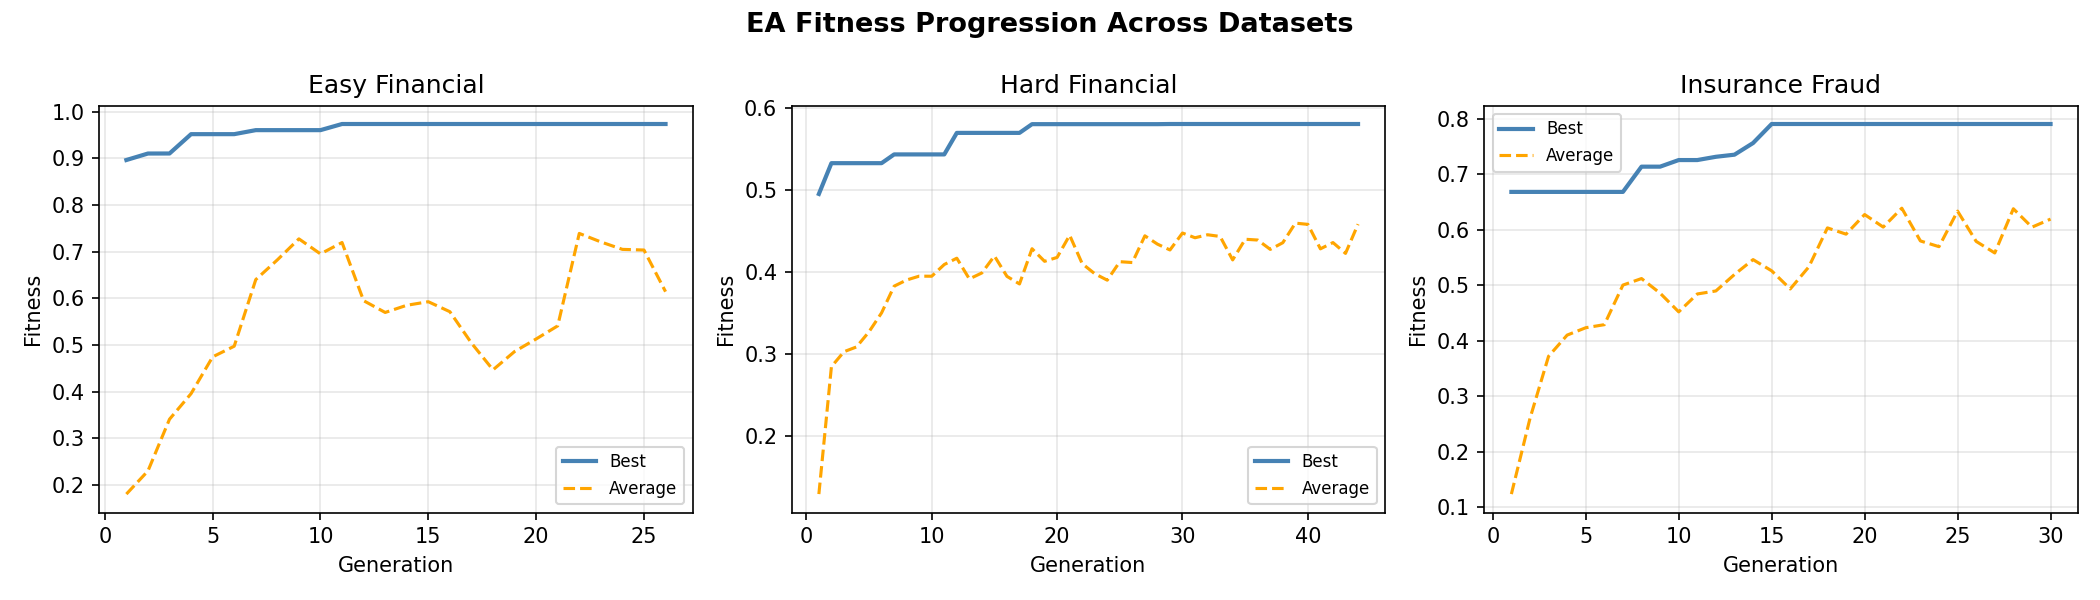
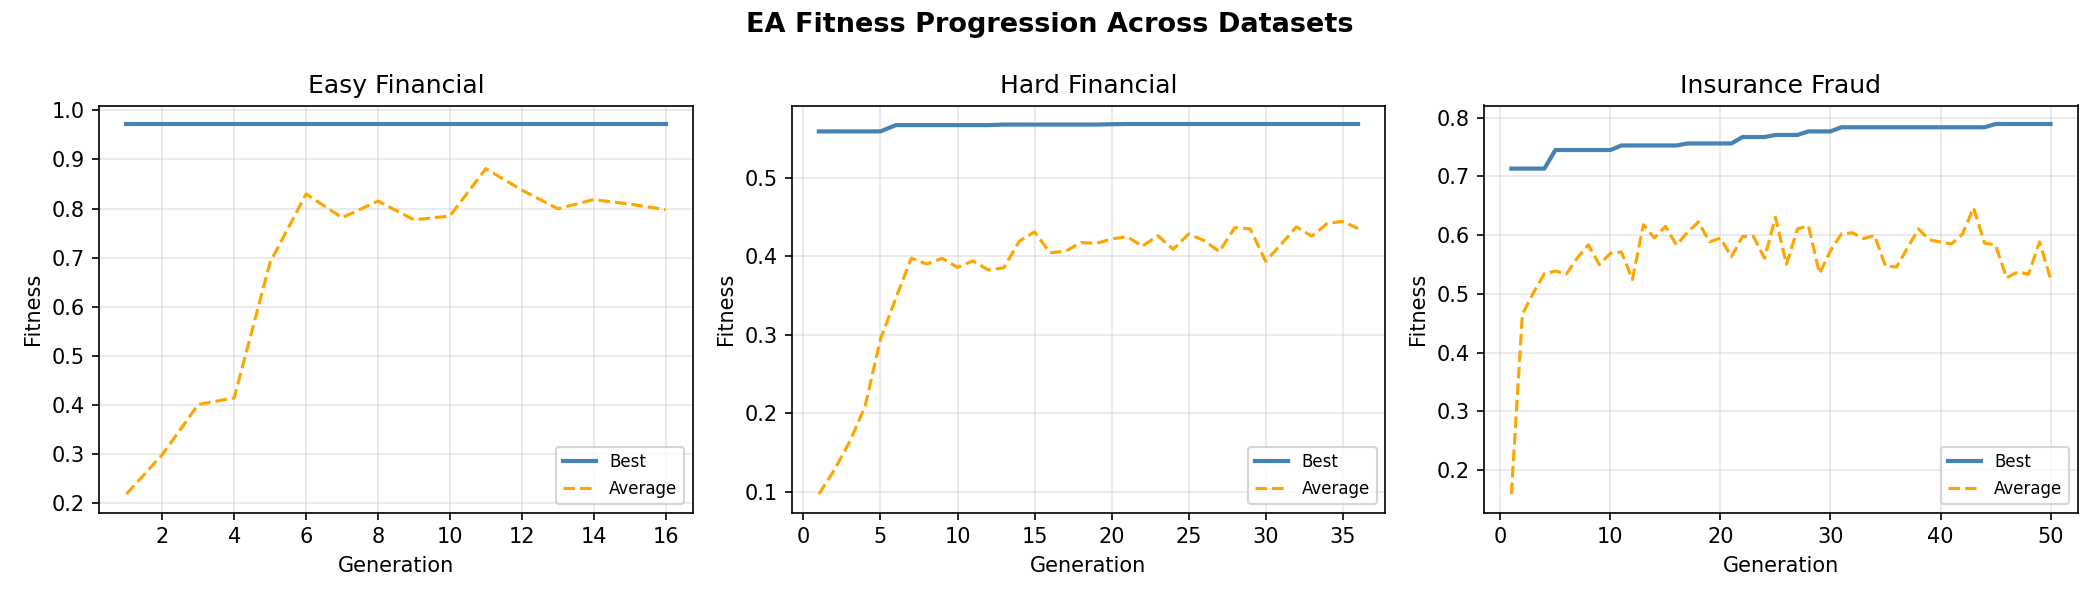
poster and expermient updates

diff --git a/poster_24x36.html b/poster_24x36.html
@@ -1,0 +1,180 @@
+<!doctype html>
+<html lang="en">
+<head>
+  <meta charset="utf-8" />
+  <meta name="viewport" content="width=device-width, initial-scale=1" />
+  <title>EA Fraud Detection Poster (24x36)</title>
+  <style>
+    @page { size: 24in 36in; margin: 0.4in; }
+    body {
+      margin: 0;
+      font-family: Arial, Helvetica, sans-serif;
+      background: #f6f8fb;
+      color: #17202a;
+    }
+    .poster {
+      width: 24in;
+      height: 36in;
+      box-sizing: border-box;
+      padding: 0.35in;
+      display: grid;
+      grid-template-rows: auto auto auto auto auto auto;
+      gap: 0.18in;
+      background: white;
+    }
+    h1 {
+      margin: 0;
+      font-size: 64px;
+      color: #0b2e4f;
+      text-align: center;
+      line-height: 1.08;
+    }
+    .subtitle {
+      text-align: center;
+      font-size: 28px;
+      color: #284b63;
+      margin-top: 0.05in;
+      margin-bottom: 0.1in;
+    }
+    .two-col {
+      display: grid;
+      grid-template-columns: 1fr 1fr;
+      gap: 0.2in;
+    }
+    .panel {
+      background: #f7fbff;
+      border: 2px solid #d7e5f2;
+      border-radius: 16px;
+      padding: 0.14in 0.17in;
+    }
+    .panel h2 {
+      margin: 0 0 0.08in 0;
+      font-size: 34px;
+      color: #0b2e4f;
+    }
+    .panel ul {
+      margin: 0;
+      padding-left: 0.22in;
+      font-size: 23px;
+      line-height: 1.28;
+    }
+    .figure-wrap {
+      background: #fff;
+      border: 2px solid #d8dee8;
+      border-radius: 14px;
+      padding: 0.10in;
+    }
+    .figure-title {
+      margin: 0 0 0.06in 0;
+      text-align: center;
+      font-size: 28px;
+      color: #12395c;
+      font-weight: 700;
+    }
+    .figure-img {
+      width: 100%;
+      height: auto;
+      display: block;
+      border-radius: 10px;
+    }
+    .results-header {
+      text-align: center;
+      font-size: 44px;
+      font-weight: 800;
+      color: #0b2e4f;
+      margin-top: 0.03in;
+      margin-bottom: -0.03in;
+    }
+    .conclusion {
+      background: #f3f8ff;
+      border: 2px solid #cbdcee;
+      border-radius: 16px;
+      padding: 0.15in 0.20in;
+    }
+    .conclusion h2 {
+      margin: 0;
+      font-size: 34px;
+      color: #0b2e4f;
+    }
+    .conclusion ul {
+      margin: 0.07in 0 0 0;
+      padding-left: 0.24in;
+      font-size: 24px;
+      line-height: 1.30;
+    }
+    .footer {
+      text-align: right;
+      font-size: 18px;
+      color: #5b6f82;
+    }
+  </style>
+</head>
+<body>
+  <div class="poster">
+    <header>
+      <h1>Evolutionary Algorithm Fraud Detection:<br/>Interpretable Rule Discovery</h1>
+      <div class="subtitle">CS 420 Project Poster</div>
+    </header>
+
+    <section class="two-col">
+      <div class="panel">
+        <h2>Introduction &amp; Motivation</h2>
+        <ul>
+          <li>Fraud operations need both strong detection and explainable decisions.</li>
+          <li>Black-box models can be accurate but difficult to audit and trust.</li>
+          <li>Goal: evolve human-readable fraud rules that prioritize likely fraud early.</li>
+          <li>Evaluated on Easy Financial, Hard Financial, and Insurance Fraud datasets.</li>
+        </ul>
+      </div>
+      <div class="panel">
+        <h2>Methods / Approach</h2>
+        <ul>
+          <li>Preprocess data and train ElasticNet as baseline risk scoring model.</li>
+          <li>Represent candidate fraud rules with threshold conditions on features.</li>
+          <li>EA loop: initialize population → fitness evaluation → diversity clustering.</li>
+          <li>Tournament selection + crossover + mutation across generations.</li>
+          <li>Fitness balances precision, recall, and agreement with baseline signal.</li>
+        </ul>
+      </div>
+    </section>
+
+    <section class="figure-wrap">
+      <div class="figure-title">Pipeline Overview</div>
+      <img class="figure-img" src="results/pipeline_diagram.png" alt="EA pipeline diagram" />
+    </section>
+
+    <section>
+      <div class="results-header">Results</div>
+    </section>
+
+    <section class="figure-wrap">
+      <div class="figure-title">Fitness Progression and Baseline Comparison</div>
+      <img class="figure-img" src="results/exp1_fitness_curves.png" alt="Fitness curves" />
+      <img class="figure-img" src="results/exp2_ea_vs_baseline.png" alt="EA vs baseline metrics" style="margin-top: 0.08in;" />
+    </section>
+
+    <section class="two-col">
+      <div class="figure-wrap">
+        <div class="figure-title">Mutation Sensitivity</div>
+        <img class="figure-img" src="results/exp3_mutation_sensitivity.png" alt="Mutation sensitivity" />
+      </div>
+      <div class="figure-wrap">
+        <div class="figure-title">Top-k Fraud Capture</div>
+        <img class="figure-img" src="results/exp4_topk_hit_rates.png" alt="Top-k hit rates" />
+      </div>
+    </section>
+
+    <section class="conclusion">
+      <h2>Conclusion</h2>
+      <ul>
+        <li>EA-discovered rules captured a large fraction of fraud in top-ranked investigations, often approaching 100% by top-10% to top-20% coverage.</li>
+        <li>Performance was strongest on easier and insurance-style datasets; hard financial data remains the key challenge.</li>
+        <li>Moderate mutation rates (roughly 0.1–0.3) were stable; overly high mutation reduced F1 consistency.</li>
+        <li>Main takeaway: interpretable evolved rules can achieve practical fraud triage performance while remaining auditable.</li>
+        <li>Future work: cost-sensitive objectives, richer rule structures, and drift-aware retraining.</li>
+      </ul>
+      <div class="footer">Print at 100% scale on a 24&quot; × 36&quot; poster.</div>
+    </section>
+  </div>
+</body>
+</html>
